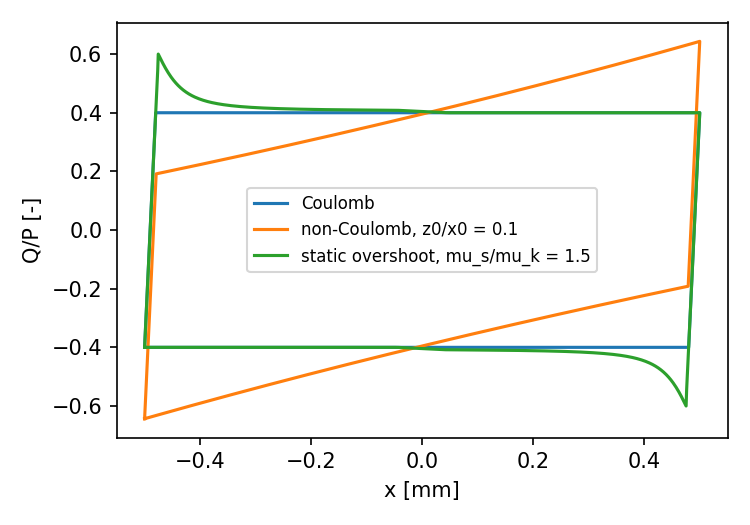
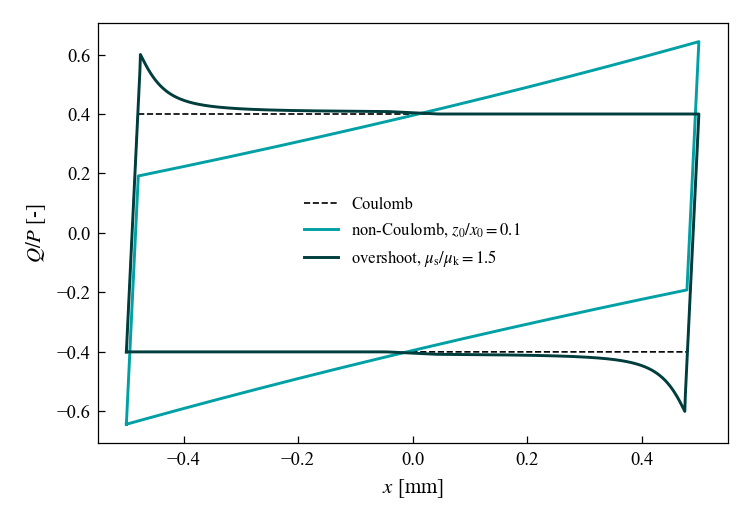
Teal plotting style, paper figure in the README
Add the optional tribosim.plotting module (house teal palette, serif font)
and use it in the examples and in the paper script. The README now shows
Fig. 6 of the article, a purely simulated figure.

diff --git a/paper/reproduce_figures.py b/paper/reproduce_figures.py
@@ -21,6 +21,7 @@ sys.path.insert(0, str(HERE.parent))
 sys.path.insert(0, str(HERE))
 from tribosim import (FrictionGenesis, FrictionLoop, GenesisEvent, Sinusoidal,
                       WearModel, add_noise)
+from tribosim.plotting import apply_style, LIGHT, MID, D1, DARK
 import parameters as par
 
 try:
@@ -30,6 +31,7 @@ try:
 except ImportError:
     sys.exit("matplotlib is needed for the figures: pip install matplotlib")
 
+apply_style()
 OUT = HERE / "figures"
 OUT.mkdir(exist_ok=True)
 
@@ -71,7 +73,7 @@ def fig06():
                                       *Sinusoidal().get_stroke(x0, 2000))
             A = abs(trapz(q, x)) / (4 * np.abs(q).max() * np.abs(x).max())
             ax = axs[i, j]
-            ax.plot(x / x0, q / (mu * P))
+            ax.plot(x / x0, q / (mu * P), color=MID if info["regime"] == "partial" else DARK)
             ax.set_title(f"x0/x0,t = {r:g}, A = {A:.2f}", fontsize=8)
             if j == 0:
                 ax.set_ylabel(f"{lab}\nQ/(mu P) [-]")
@@ -95,8 +97,8 @@ def fig09():
     fig, axs = plt.subplots(2, 2, figsize=(10, 6))
     for ax, (name, c) in zip(axs.ravel(), par.GENESIS.items()):
         g = genesis_case(c)
-        ax.plot(g.cycles, g.generate(), lw=0.5, label="model realisation")
-        ax.plot(g.cycles, g.backbone(), lw=1.5, label="backbone")
+        ax.plot(g.cycles, g.generate(), lw=0.5, color=LIGHT, label="model realisation")
+        ax.plot(g.cycles, g.backbone(), lw=1.4, color=DARK, label="backbone")
         if name == "LI21":
             ax.set_xscale("log")
         ax.set_title(f"{name}  ({c['ref']})", fontsize=8)
@@ -112,7 +114,7 @@ def fig10():
         x, q = loop(c)
         if "noise" in c:
             q, _ = add_noise(q, x, rng=np.random.default_rng(1), **c["noise"])
-        ax.plot(x, q / c["P"], lw=0.8)
+        ax.plot(x, q / c["P"], lw=1.0, color=MID)
         ax.set_title(name, fontsize=8)
         ax.set_xlabel("x [mm]"); ax.set_ylabel("CoF [-]")
     save(fig, "fig10_loops")
@@ -154,19 +156,19 @@ def fig11():
           f"against {N / v['f_test'] / 3600:.1f} h of physical test")
 
     fig, axs = plt.subplots(2, 2, figsize=(10, 7))
-    axs[0, 0].plot(gen.cycles, mu, lw=0.4)
+    axs[0, 0].plot(gen.cycles, mu, lw=0.4, color=MID)
     axs[0, 0].set_xlabel("cycle n"); axs[0, 0].set_ylabel("CoF [-]")
-    for n in (5_000, 50_000, N - 1):
+    for n, col in zip((5_000, 50_000, N - 1), (LIGHT, MID, DARK)):
         m = mu[n]
         c.update(mu_s_acc=(v["kappa_acc"] * m,) * 2, mu_s_dec=(m, m))
         x, q = loop(c, sr=200, z0_over_x0=zx[n], mu_k=(m, m))
-        axs[0, 1].plot(x * 1e3, q, label=f"n = {n // 1000} k")
+        axs[0, 1].plot(x * 1e3, q, color=col, label=f"n = {n // 1000} k")
         W, D = w["W_scar"][n], w["z0"][n]
         xp = np.linspace(-W, W, 200)
-        axs[1, 0].plot(xp * 1e3, -D * (1 - (xp / W) ** 2) * 1e3, label=f"n = {n // 1000} k")
+        axs[1, 0].plot(xp * 1e3, -D * (1 - (xp / W) ** 2) * 1e3, color=col, label=f"n = {n // 1000} k")
     axs[0, 1].set_xlabel("x [um]"); axs[0, 1].set_ylabel("Q [N]"); axs[0, 1].legend(fontsize=7)
     axs[1, 0].set_xlabel("x [um]"); axs[1, 0].set_ylabel("depth [um]"); axs[1, 0].legend(fontsize=7)
-    axs[1, 1].plot(gen.cycles, zx)
+    axs[1, 1].plot(gen.cycles, zx, color=DARK)
     axs[1, 1].set_xlabel("cycle n"); axs[1, 1].set_ylabel("z0/x0 = D/W [-]")
     save(fig, "fig11_virtual_test")
 

diff --git a/tribosim/plotting.py b/tribosim/plotting.py
@@ -1,0 +1,47 @@
+"""
+plotting.py
+-----------
+Optional plotting style used by the examples and the paper scripts: a teal
+palette from light to dark, black for measurements or references, and a
+serif font.  Matplotlib is imported only when apply_style() is called, so the
+package itself does not depend on it.
+
+    from tribosim.plotting import apply_style, TEAL
+    apply_style()
+    ax.plot(x, q, color=TEAL[2])
+
+Author : Iñigo Llavori Osa - Mondragon Unibertsitatea
+"""
+
+LIGHT = "#7fd0d2"
+MID = "#00a0a5"
+D1 = "#006d70"
+DARK = "#003d3d"
+GREY = "#6e6e6e"
+BLACK = "#000000"
+TEAL = (LIGHT, MID, D1, DARK)          # light to dark
+
+
+def apply_style(font_size: float = 10) -> None:
+    """Set the Matplotlib defaults: serif font, teal colour cycle, inward ticks."""
+    import matplotlib as mpl
+    from cycler import cycler
+
+    mpl.rcParams.update({
+        "font.family": "serif",
+        "font.serif": ["Times New Roman", "STIXGeneral", "DejaVu Serif"],
+        "mathtext.fontset": "stix",
+        "font.size": font_size,
+        "axes.labelsize": font_size,
+        "xtick.labelsize": font_size - 1,
+        "ytick.labelsize": font_size - 1,
+        "legend.fontsize": font_size - 2,
+        "legend.frameon": False,
+        "axes.linewidth": 0.6,
+        "xtick.direction": "in",
+        "ytick.direction": "in",
+        "xtick.major.width": 0.6,
+        "ytick.major.width": 0.6,
+        "axes.prop_cycle": cycler(color=[MID, DARK, LIGHT, D1]),
+        "savefig.dpi": 300,
+    })

diff --git a/examples/01_friction_loop.py b/examples/01_friction_loop.py
@@ -51,12 +51,16 @@ for name, (x, q) in cases.items():
 
 try:
     import matplotlib.pyplot as plt
+    from tribosim.plotting import apply_style, BLACK, MID, DARK
 except ImportError:
     sys.exit(0)
+apply_style()
 fig, ax = plt.subplots(figsize=(5, 3.5))
-for name, (x, q) in cases.items():
-    ax.plot(x, q / P, label=name)
-ax.set_xlabel("x [mm]"); ax.set_ylabel("Q/P [-]"); ax.legend(fontsize=8)
+styles = [dict(color=BLACK, lw=0.8, ls="--"), dict(color=MID, lw=1.4), dict(color=DARK, lw=1.4)]
+labels = ["Coulomb", r"non-Coulomb, $z_0/x_0 = 0.1$", r"overshoot, $\mu_\mathrm{s}/\mu_\mathrm{k} = 1.5$"]
+for (x, q), st, lab in zip(cases.values(), styles, labels):
+    ax.plot(x, q / P, label=lab, **st)
+ax.set_xlabel(r"$x$ [mm]"); ax.set_ylabel(r"$Q/P$ [-]"); ax.legend(loc="center")
 out = Path(__file__).parent / "output"; out.mkdir(exist_ok=True)
 fig.tight_layout(); fig.savefig(out / "01_friction_loop.png", dpi=150)
 print("saved", out / "01_friction_loop.png")

diff --git a/examples/02_cof_genesis.py b/examples/02_cof_genesis.py
@@ -33,12 +33,14 @@ print("random events:", [(int(e.cycle), round(e.amplitude, 3)) for e in rnd])
 
 try:
     import matplotlib.pyplot as plt
+    from tribosim.plotting import apply_style, MID, DARK
 except ImportError:
     sys.exit(0)
+apply_style()
 fig, ax = plt.subplots(figsize=(6, 3))
-ax.plot(mu_fw, lw=0.6, label="forward")
-ax.plot(mu_bw, lw=0.6, label="backward")
-ax.set_xlabel("cycle n"); ax.set_ylabel("CoF [-]"); ax.legend()
+ax.plot(mu_fw, lw=0.6, color=DARK, label="forward")
+ax.plot(mu_bw, lw=0.6, color=MID, label="backward")
+ax.set_xlabel(r"Cycle, $n$"); ax.set_ylabel("CoF [-]"); ax.legend(loc="lower right")
 out = Path(__file__).parent / "output"; out.mkdir(exist_ok=True)
 fig.tight_layout(); fig.savefig(out / "02_cof_genesis.png", dpi=150)
 print("saved", out / "02_cof_genesis.png")

diff --git a/README.md b/README.md
@@ -11,7 +11,11 @@ developing and benchmarking CoF estimation methods, for exploring how test
 conditions shape the friction loop, and for generating synthetic data for
 data-driven analysis.
 
-![Friction loops](docs/images/friction_loops.png)
+![Partial to gross slip](docs/images/partial_slip.png)
+
+*Friction loops simulated with triboSim from partial to gross slip, with the
+contact compliance only (top) and with the contact and rig compliances
+(bottom). A is the energy ratio of each loop (Fig. 6 of the article).*
 
 ## What it models
 
@@ -23,6 +27,7 @@ data-driven analysis.
 | Wear | `WearModel` | energy-based wear of the flat and of a ball or cylinder counterbody, whose scar reshapes the loop as it grows |
 | Acquisition | `add_noise` | correlated instrumental noise set by the sensor range, plus tribological noise |
 | Export | `Exporter`, `load_session` | self-describing CSV and saved sessions |
+| Plotting (optional) | `tribosim.plotting.apply_style` | the teal style of the figures, needs Matplotlib |
 
 The simulator is quasi-static and of reduced order. See the
 [scope and limitations](docs/user_guide.md#8-scope-and-limitations).

diff --git a/docs/user_guide.md b/docs/user_guide.md
@@ -124,6 +124,12 @@ x, Q, _ = loop.calculate(
 The four scripts in [`examples/`](../examples) build up from here to a complete
 virtual test.
 
+![Three friction loops](images/friction_loops.png)
+
+For figures in the same style, call `tribosim.plotting.apply_style()` before
+plotting. It sets a serif font and a teal colour cycle, and the colours are
+available as `LIGHT`, `MID`, `D1` and `DARK` (light to dark) and `BLACK`.
+
 ---
 
 ## 5. Modules
